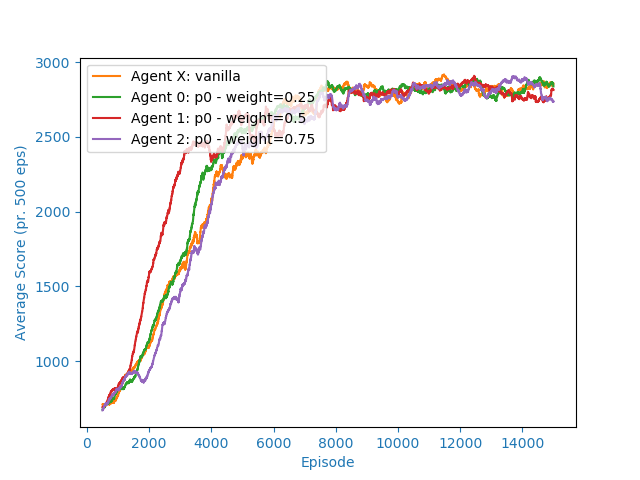
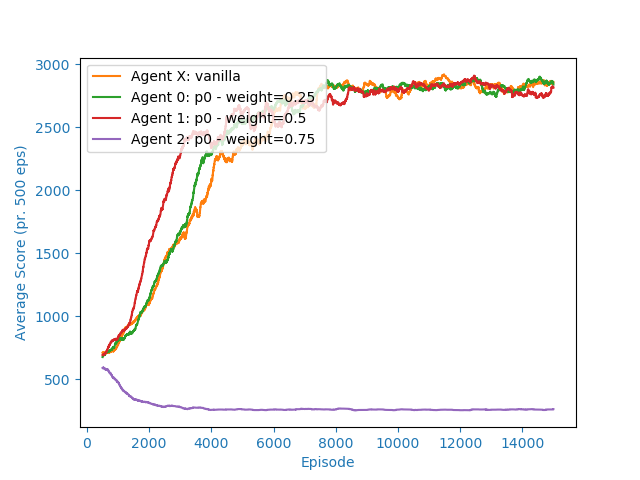
more plots

diff --git a/mario_dqn/plots/compare_multiple.py b/mario_dqn/plots/compare_multiple.py
@@ -180,7 +180,7 @@ path6 = '/work/henriksv/code/mario-data-collection/mario_dqn/mario_EDDQN_p6_0.5/
 path7 = '/work/henriksv/code/mario-data-collection/mario_dqn/mario_EDDQN_p7_0.5_v4/mario_EDDQN_p7_0.5_v4_episodes.json'
 path8 = '/work/henriksv/code/mario-data-collection/mario_dqn/mario_EDDQN_p8_0.5/mario_EDDQN_p8_0.5_episodes.json'
 path9 = '/work/henriksv/code/mario-data-collection/mario_dqn/mario_EDDQN_p9_0.5/mario_EDDQN_p9_0.5_episodes.json'
-
+"""
 # Best
 paths = [
     pathX, 
@@ -244,11 +244,12 @@ label = 'Average Score (pr. 1000 eps)'
 compare(paths, legends, 'scores', label,test, n, 1000, leg_pos=pos, tail=tail)
 
 
-"""path01 = '/work/henriksv/code/mario-data-collection/mario_dqn/mario_EDDQN_p0_0.25/mario_EDDQN_p0_0.25_episodes.json'
-path02 = '/work/henriksv/code/mario-data-collection/mario_dqn/mario_EDDQN_p0_0.75/mario_EDDQN_p0_0.75_episodes.json'
+"""
+path01 = '/work/henriksv/code/mario-data-collection/mario_dqn/mario_EDDQN_p0_0.25/mario_EDDQN_p0_0.25_episodes.json'
+path02 = '/work/henriksv/code/mario-data-collection/mario_dqn/mario_EDDQN_p0_0.75_v3/mario_EDDQN_p0_0.75_v3_episodes.json'
 
 path61 = '/work/henriksv/code/mario-data-collection/mario_dqn/mario_EDDQN_p6_0.25/mario_EDDQN_p6_0.25_episodes.json'
-path62 = '/work/henriksv/code/mario-data-collection/mario_dqn/mario_EDDQN_p6_0.75/mario_EDDQN_p6_0.75_episodes.json'
+path62 = '/work/henriksv/code/mario-data-collection/mario_dqn/mario_EDDQN_p6_0.75_v4/mario_EDDQN_p6_0.75_v4_episodes.json'
 
 
 paths = [
@@ -260,7 +261,7 @@ paths = [
 
 
 test = 'weight_p0'
-n = 15000
+n = 10000
 legends = [
     'Agent X: vanilla', 
     'Agent 0: p0 - weight=0.25 ',
@@ -269,13 +270,10 @@ legends = [
     ]
 
 pos = 'high'
-label = 'Finish Rate (pr. 500 eps)'
-compare(paths, legends, 'success', label,test, n, leg_pos=pos)
 label = 'Finish Rate (pr. 1000 eps)'
 compare(paths, legends, 'success', label,test, n, 1000, leg_pos=pos)
 
-label = 'Average Score (pr. 500 eps)'
-compare(paths, legends, 'scores', label,test, n, leg_pos=pos)
+pos = 'low'
 label = 'Average Score (pr. 1000 eps)'
 compare(paths, legends, 'scores', label,test, n, 1000, leg_pos=pos)
 
@@ -283,12 +281,12 @@ paths = [
     pathX, 
     path61, 
     path6,  
-    #path62
+    path62
     ]
 
 
 test = 'weight_p6'
-n = 15000
+n = 10000
 legends = [
     'Agent X: vanilla', 
     'Agent 3: p6 - weight=0.25 ', 
@@ -297,15 +295,11 @@ legends = [
     ]
 
 pos = 'high'
-label = 'Finish Rate (pr. 500 eps)'
-compare(paths, legends, 'success', label,test, n, leg_pos=pos)
 label = 'Finish Rate (pr. 1000 eps)'
 compare(paths, legends, 'success', label,test, n, 1000, leg_pos=pos)
-
-label = 'Average Score (pr. 500 eps)'
-compare(paths, legends, 'scores', label,test, n, leg_pos=pos)
+pos = 'low'
 label = 'Average Score (pr. 1000 eps)'
-compare(paths, legends, 'scores', label,test, n, 1000, leg_pos=pos)"""
+compare(paths, legends, 'scores', label,test, n, 1000, leg_pos=pos)
 """
    episode_history = {
                 'epsilon' : epsilon_history,
